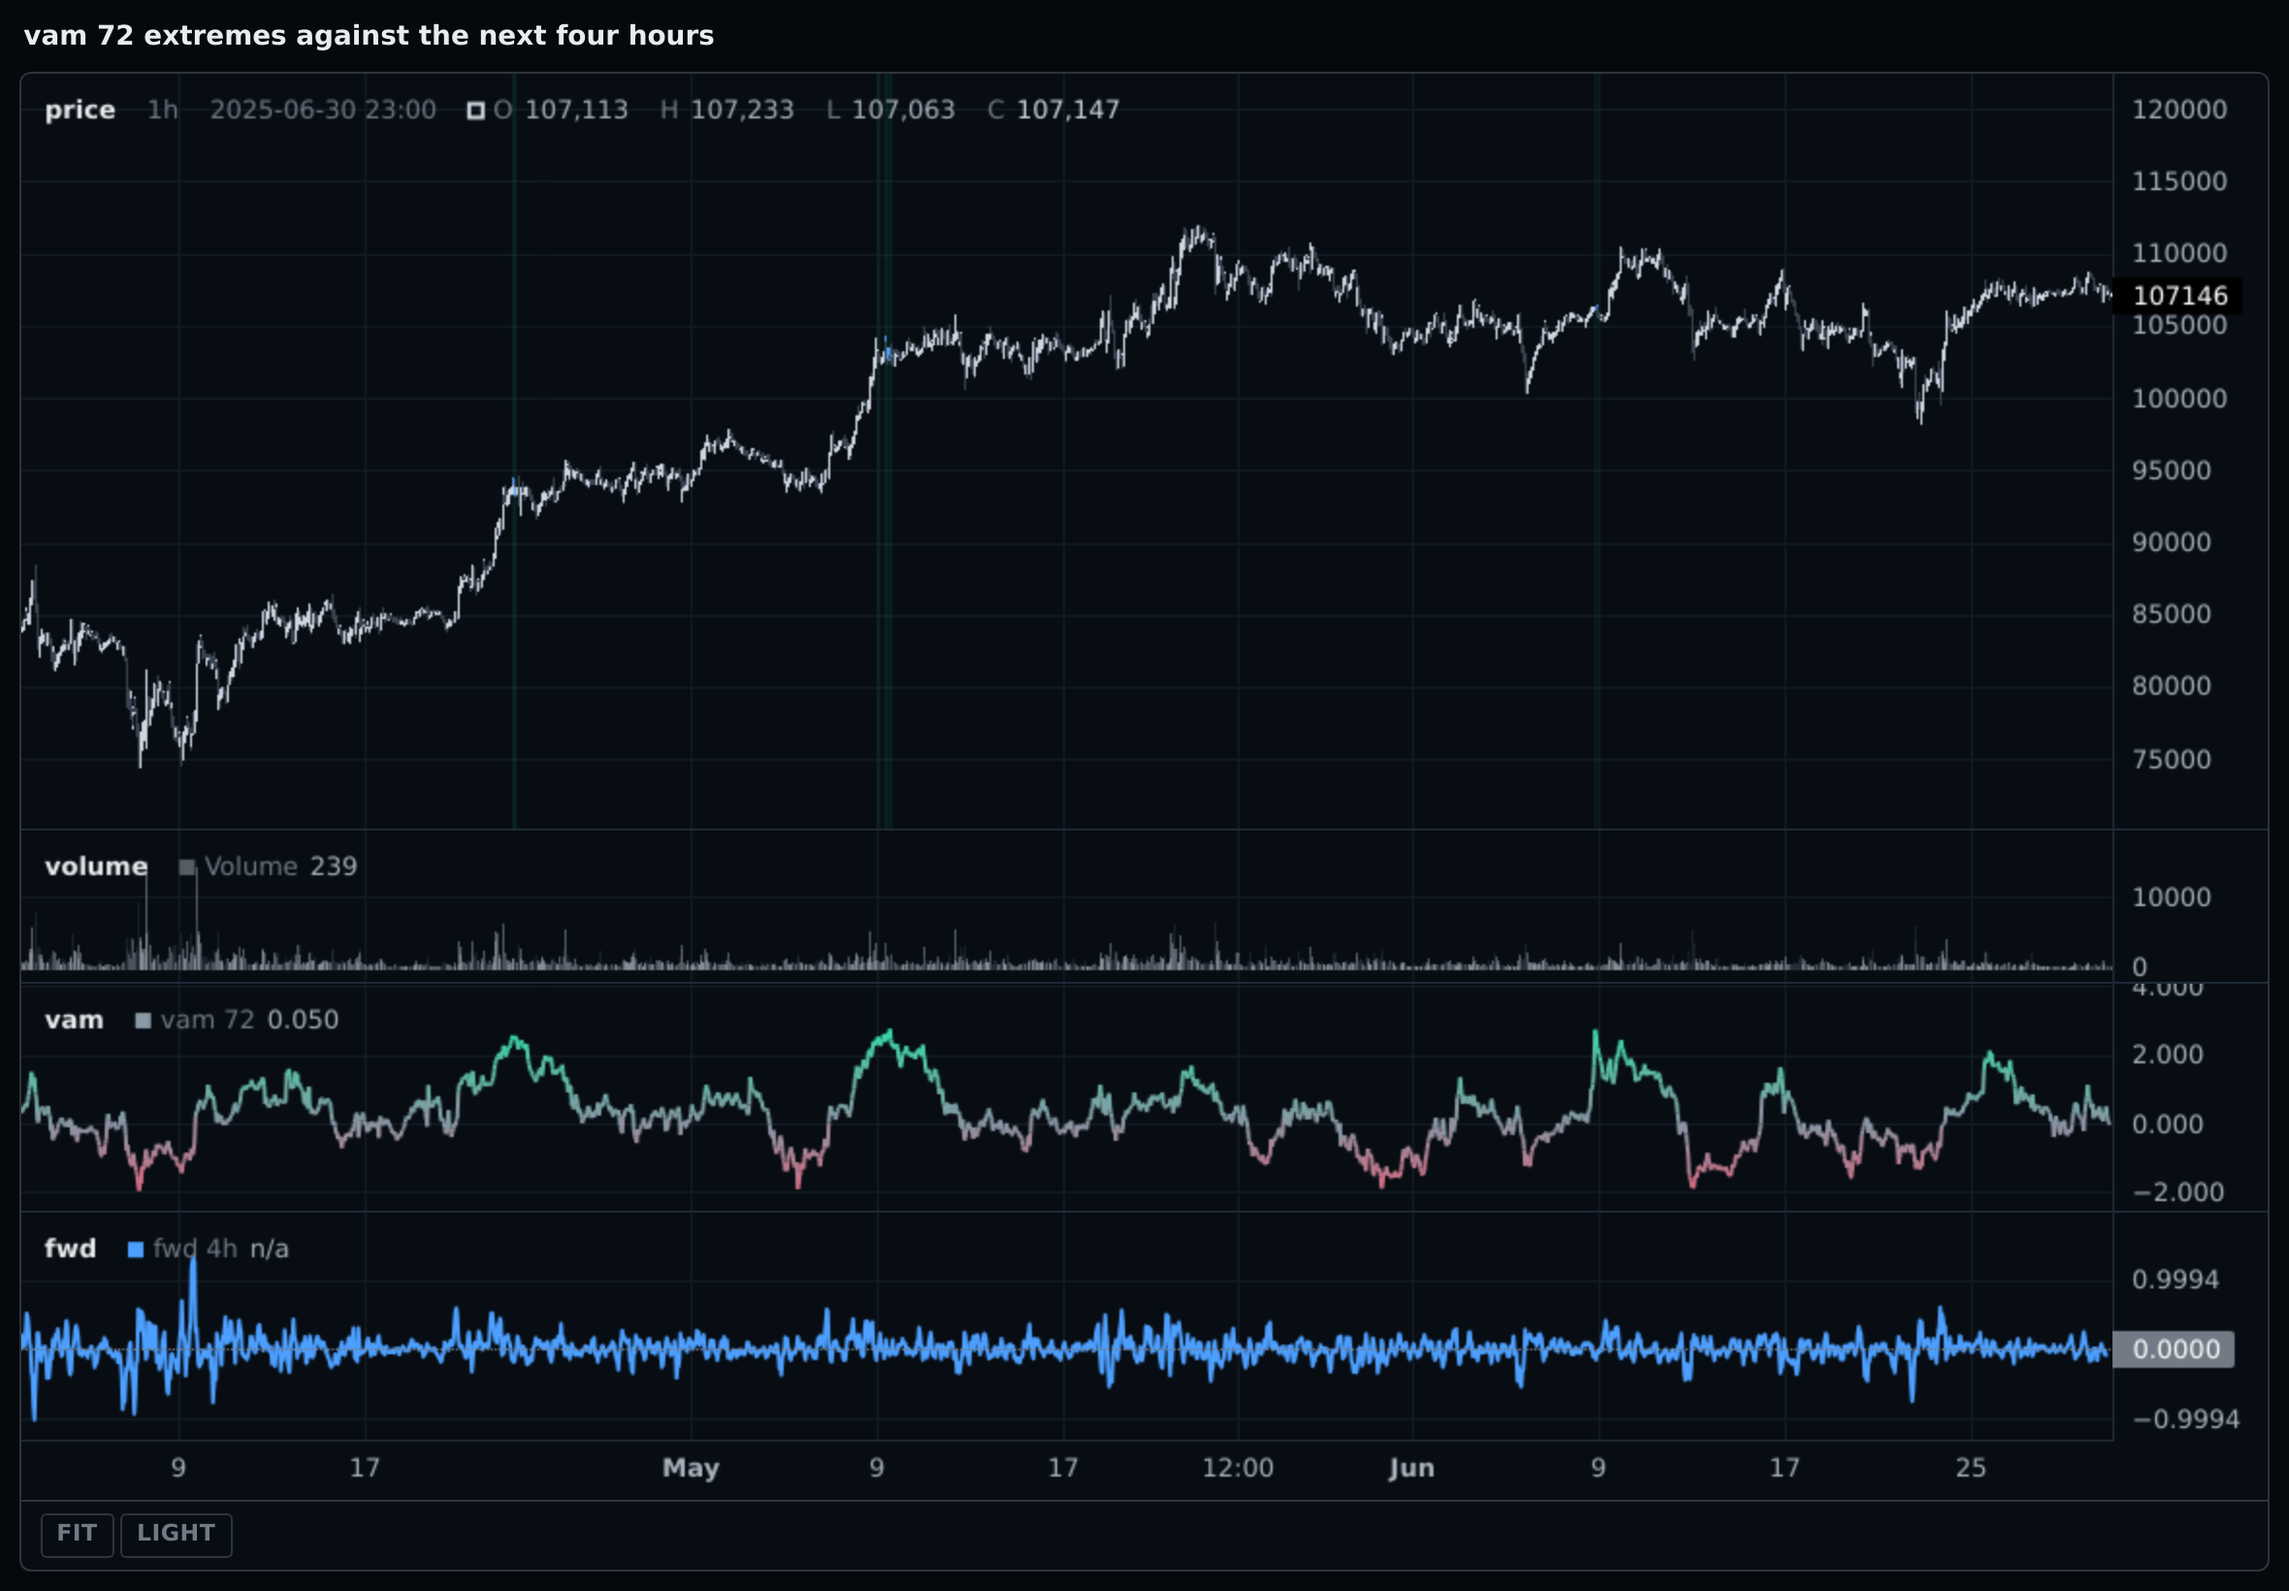
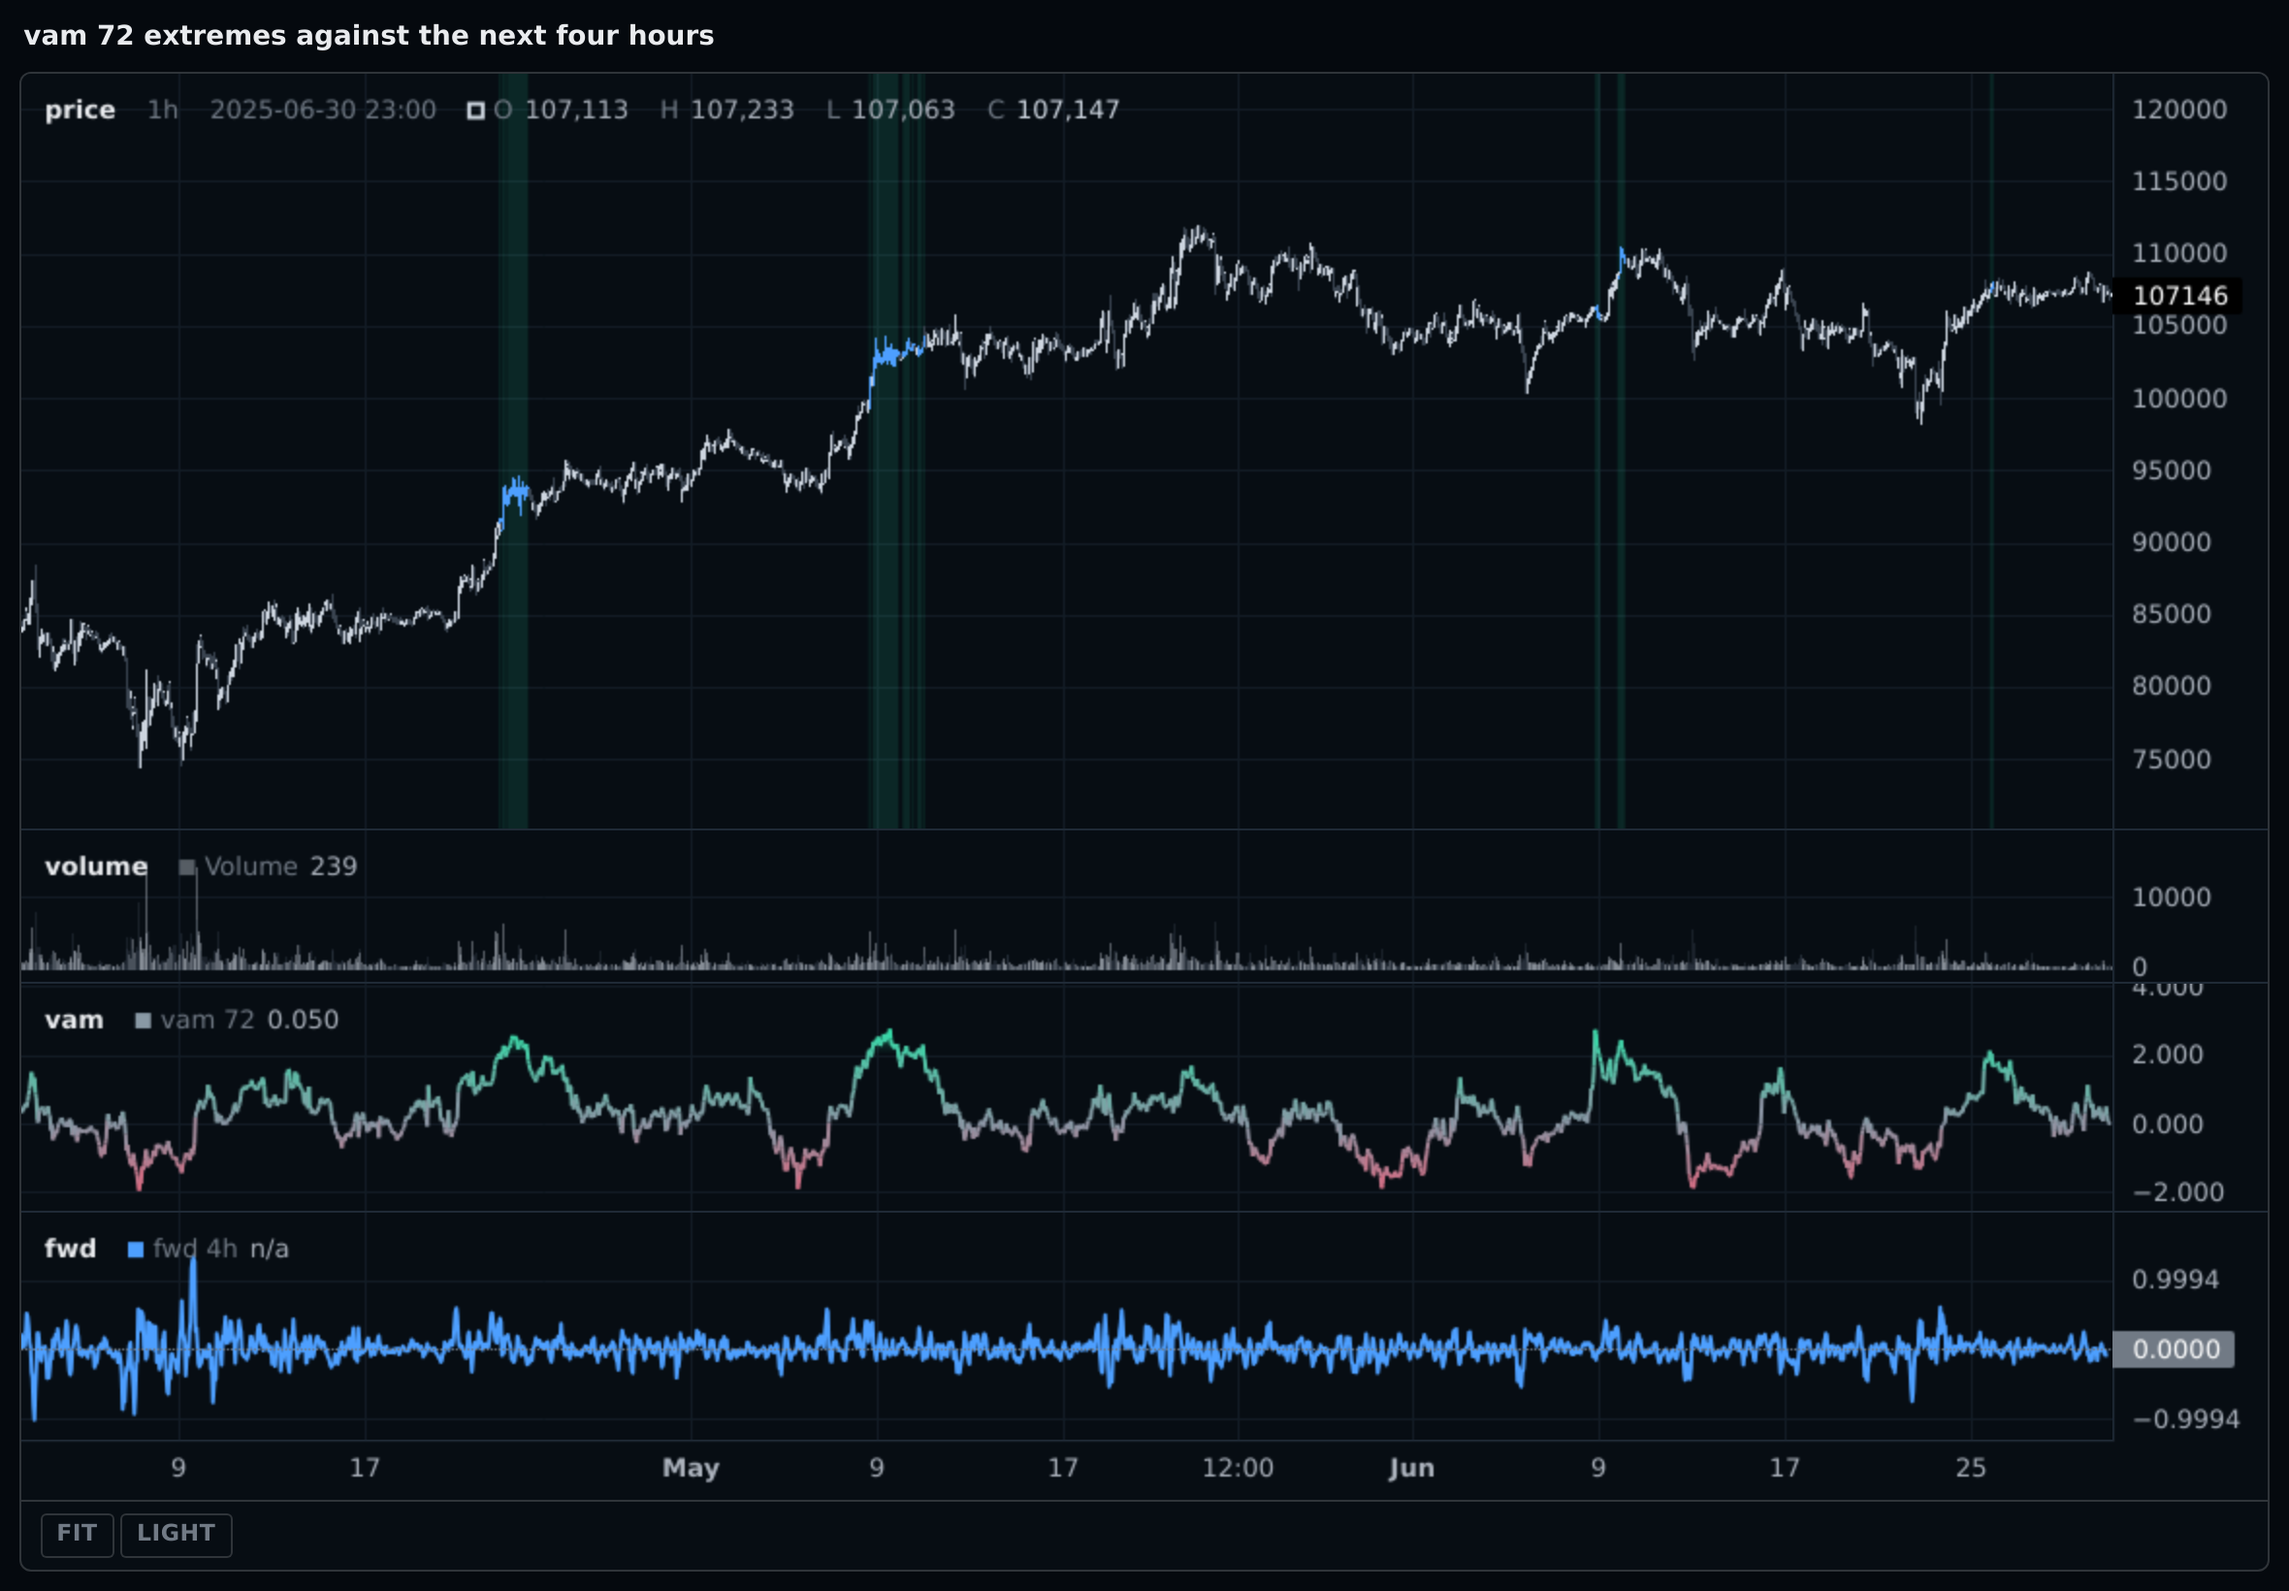
py,rs,docs: drop dead code and fix an example that could not fire
Swept the tree for the typographic rules and for code nothing reaches.

- crates/emsl-core/src/book.rs: remove `capacity()`. Nothing called it, not even
  a test, which is why its mutant survived the last mutation run
- python/emsl/ta.py: remove `_first_finite`. Defined once, referenced nowhere
- dev/differential/batch_differential.py: remove an unused `import math`
- dev/charts/build.py, .Documentation/Plotting.md: the vam extremes example
  thresholded at 2.5, and over its window vam 72 runs -2.46 to +2.75, so the
  "lo" half of its fill map fired on none of the 4,344 bars. The picture
  teaching a two-colour label map could only ever show one colour. Two sigma
  instead: 95 bars above, 52 below, 13 red spans now in the spec
- .Documentation/imgs/charts/ex-verdict.png: the only image that changed

Changed region(s): [[0.3712, 0.0622, 0.4021, 0.5287], [0.2165, 0.0622, 0.2475, 0.5287]]

diff --git a/dev/charts/build.py b/dev/charts/build.py
@@ -317,8 +317,11 @@ def documented_examples(raw):
 
     vam72 = vam(close=close, n=72)
     shade = ramp(values=vam72, colors=[RED, GREY, GREEN], domain=(-3.0, 3.0))
+    # two sigma either way. It was 2.5, and over this window vam 72 runs -2.46 to
+    # +2.75, so the "lo" half of the fill map fired on none of the 4,344 bars: the
+    # picture teaching a two-colour label map could only ever show one colour
     regime = numpy.where(
-        vam72 > 2.5, "hi", numpy.where(vam72 < -2.5, "lo", "flat")
+        vam72 > 2.0, "hi", numpy.where(vam72 < -2.0, "lo", "flat")
     ).astype(object)
 
     hours = 4
@@ -400,12 +403,12 @@ def documented_examples(raw):
         marks=[
             Background(values=regime, fill={"hi": "#2fe0a81f", "lo": "#ff54701f"}),
             Line(values=vam72, name="vam 72", panel="vam", color=shade),
-            Band(upper=vam72, lower=2.5, only="above", panel="vam",
+            Band(upper=vam72, lower=2.0, only="above", panel="vam",
                  fill=("#2fe0a800", "#2fe0a859")),
             Line(values=forward, name="fwd 4h", panel="fwd"),
             Level(value=0.0, panel="fwd", style="dotted"),
         ],
-        candle_color=numpy.where(numpy.abs(vam72) > 2.5, "#4d9fff", None),
+        candle_color=numpy.where(numpy.abs(vam72) > 2.0, "#4d9fff", None),
         title="vam 72 extremes against the next four hours",
         height=820,
     ), NARROW, "a feature judged against what came next")

diff --git a/python/emsl/ta.py b/python/emsl/ta.py
@@ -205,11 +205,6 @@ def _windows(values, length):
     return np.lib.stride_tricks.sliding_window_view(values, length)
 
 
-def _first_finite(values):
-    finite = np.flatnonzero(np.isfinite(values))
-    return int(finite[0]) if finite.size else None
-
-
 def _aligned(where, **named):
     # every series a multi-input indicator reads has to describe the same bars,
     # and the error names which one is the odd size rather than reporting a shape

diff --git a/crates/emsl-core/src/book.rs b/crates/emsl-core/src/book.rs
@@ -23,11 +23,6 @@ impl RestingOrderBook {
         }
     }
 
-    /// Number of slots.
-    pub fn capacity(&self) -> usize {
-        self.slots.len()
-    }
-
     /// Number of resting orders.
     pub fn len(&self) -> usize {
         self.slots.iter().filter(|s| s.is_some()).count()

diff --git a/dev/differential/batch_differential.py b/dev/differential/batch_differential.py
@@ -17,7 +17,6 @@ at bar zero, which is what the batched tests do.
   python batch_differential.py [cases] [seed]
 """
 
-import math
 import random
 import sys
 

diff --git a/.Documentation/Plotting.md b/.Documentation/Plotting.md
@@ -269,12 +269,12 @@ emsl.chart(
     marks=[
         Background(values=regime, fill={"hi": "#2fe0a81f", "lo": "#ff54701f"}),
         Line(values=vam72, name="vam 72", panel="vam", color=shade),
-        Band(upper=vam72, lower=2.5, only="above", panel="vam",
+        Band(upper=vam72, lower=2.0, only="above", panel="vam",
              fill=("#2fe0a800", "#2fe0a859")),
         Line(values=forward, name="fwd 4h", panel="fwd"),
         Level(value=0.0, panel="fwd", style="dotted"),
     ],
-    candle_color=numpy.where(numpy.abs(vam72) > 2.5, "#4d9fff", None),
+    candle_color=numpy.where(numpy.abs(vam72) > 2.0, "#4d9fff", None),
     title="vam 72 extremes against the next four hours",
 ).show()
 ```
